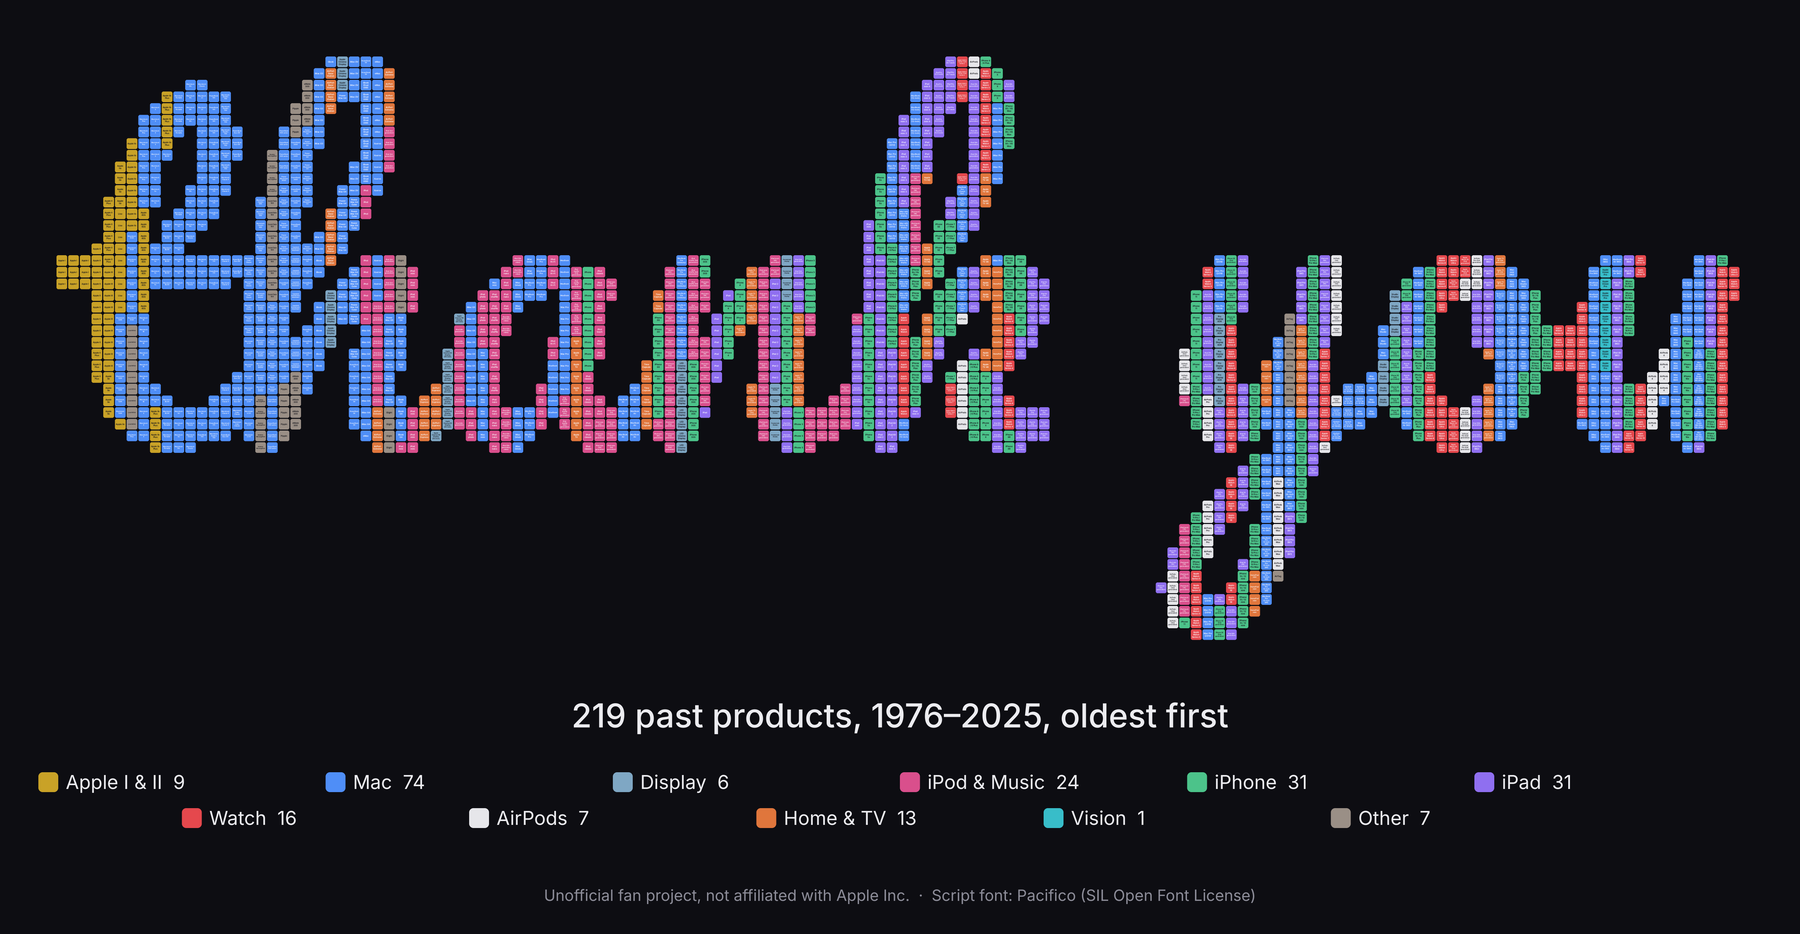
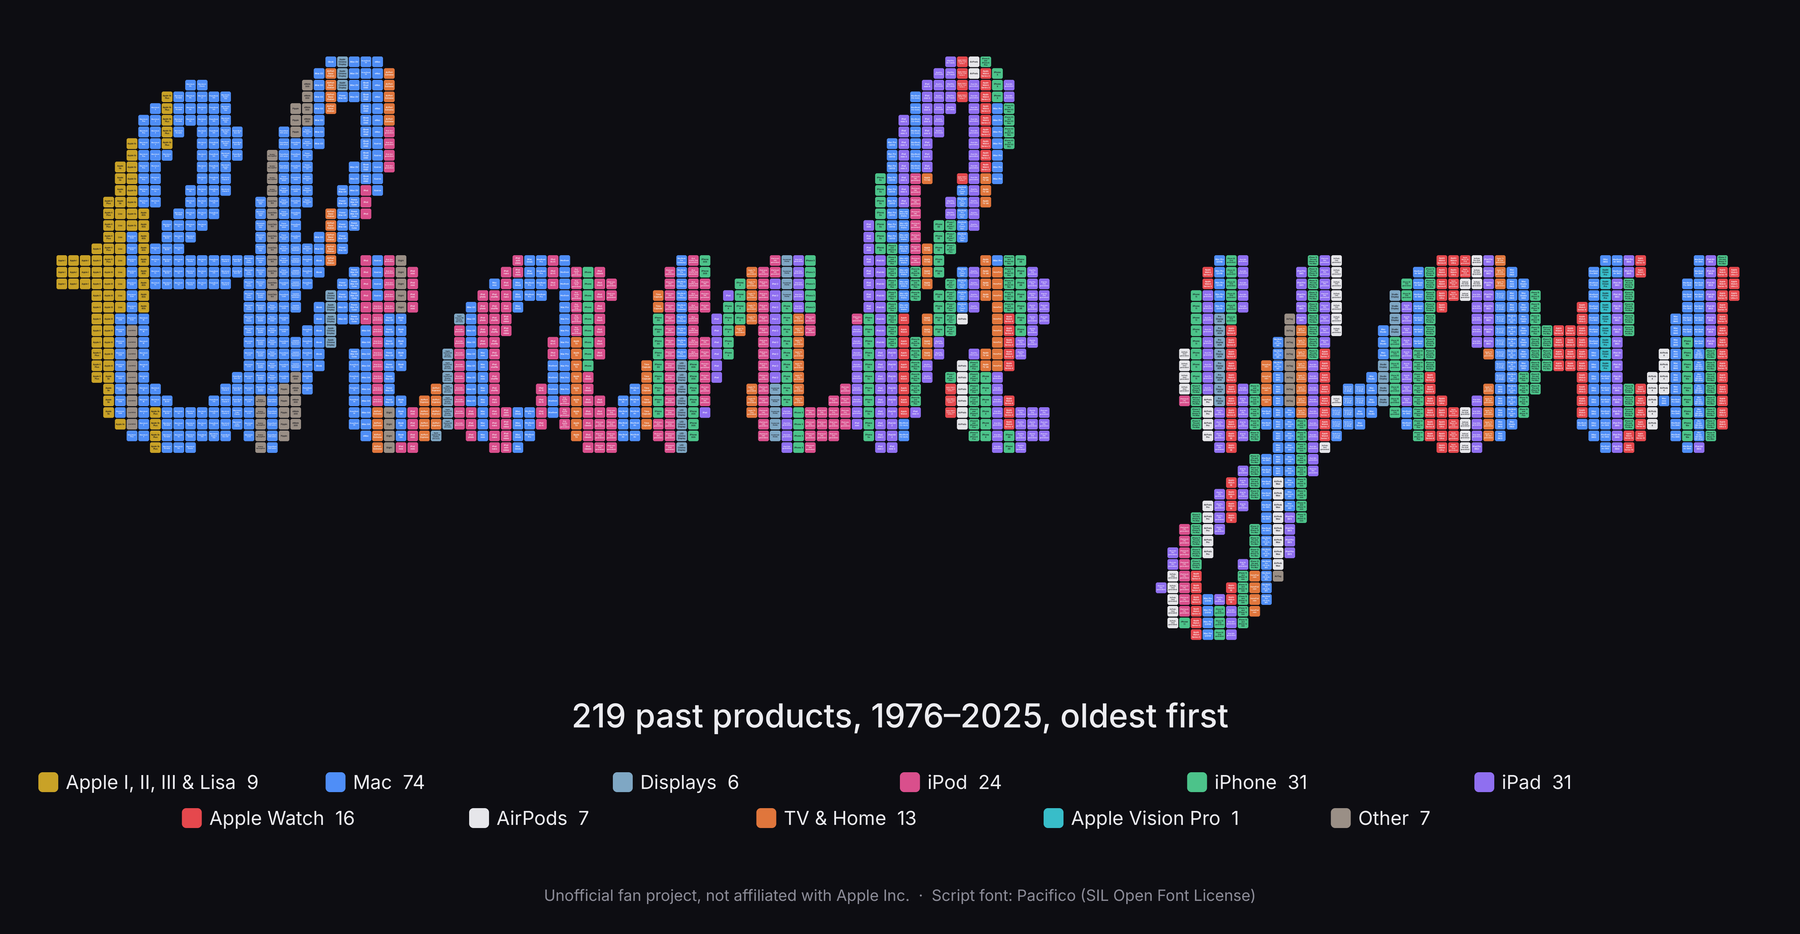
Use Apple's marketing names for categories and recent products
Claude-Session: https://claude.ai/code/session_01MyV9r8x459Jz8C5bHCgrmS

diff --git a/scripts/fetch_current.py b/scripts/fetch_current.py
@@ -30,14 +30,14 @@ CATEGORY_PAGES = {
     "Mac": "https://www.apple.com/mac/",
     "iPad": "https://www.apple.com/ipad/",
     "iPhone": "https://www.apple.com/iphone/",
-    "Watch": "https://www.apple.com/watch/",
+    "Apple Watch": "https://www.apple.com/watch/",
     "AirPods": "https://www.apple.com/airpods/",
-    "Home & TV": "https://www.apple.com/tv-home/",
+    "TV & Home": "https://www.apple.com/tv-home/",
 }
 
 # Single-product pages: the product is current if its page loads.
 SINGLE_PAGES = {
-    "Apple Vision Pro": ("Vision", "https://www.apple.com/apple-vision-pro/"),
+    "Apple Vision Pro": ("Apple Vision Pro", "https://www.apple.com/apple-vision-pro/"),
     "AirTag": ("Other", "https://www.apple.com/airtag/"),
 }
 
@@ -70,7 +70,7 @@ def parse_strip(html: str) -> list[str]:
 
 def guess_category(label: str, page_category: str) -> str:
     if "display" in label.lower():
-        return "Display"
+        return "Displays"
     return page_category
 
 

diff --git a/scripts/fetch_images.py b/scripts/fetch_images.py
@@ -49,7 +49,7 @@ def strip_html(value: str) -> str:
 
 def title_candidates(product: dict) -> list[str]:
     """Article titles worth trying, most specific first."""
-    name = product["name"].split(" / ")[0].strip()
+    name = re.split(r" / | and (?![^()]*\))", product["name"])[0].strip()
     plain = re.sub(r"\s*\(.*?\)", "", name).strip()
     titles = [name, plain, product["line"]]
     seen, result = set(), []
@@ -82,7 +82,7 @@ class Wiki:
         return None
 
     def search_title(self, product: dict) -> str | None:
-        query = f'{product["name"].split(" / ")[0]} Apple'
+        query = f'{re.split(r" / | and (?![^()]*\))", product["name"])[0]} Apple'
         data = self.get(action="query", list="search", srsearch=query, srlimit=1, srnamespace=0)
         hits = data.get("query", {}).get("search", [])
         return hits[0]["title"] if hits else None

diff --git a/scripts/fetch_all_time.py b/scripts/fetch_all_time.py
@@ -34,10 +34,10 @@ ACCESSORIES = re.compile(
 )
 
 CATEGORY_KEYWORDS = [
-    ("iPhone", "iPhone"), ("iPad", "iPad"), ("Watch", "Watch"), ("AirPods", "AirPods"),
-    ("Display", "Display"), ("Vision", "Vision"), ("iPod", "iPod & Music"),
-    ("HomePod", "Home & TV"), ("Apple TV", "Home & TV"), ("Home", "Home & TV"),
-    ("AirPort", "Home & TV"), ("Mac", "Mac"), ("AirTag", "Other"),
+    ("iPhone", "iPhone"), ("iPad", "iPad"), ("Watch", "Apple Watch"), ("AirPods", "AirPods"),
+    ("Display", "Displays"), ("Vision", "Apple Vision Pro"), ("iPod", "iPod"),
+    ("HomePod", "TV & Home"), ("Apple TV", "TV & Home"), ("Home", "TV & Home"),
+    ("AirPort", "TV & Home"), ("Mac", "Mac"), ("AirTag", "Other"),
 ]
 
 

diff --git a/scripts/common.py b/scripts/common.py
@@ -13,16 +13,16 @@ OUTPUT_DIR = ROOT / "output"
 
 # Display order and colors for each product category.
 CATEGORIES: dict[str, str] = {
-    "Apple I & II": "#c9a227",
+    "Apple I, II, III & Lisa": "#c9a227",
     "Mac": "#4f8ef7",
-    "Display": "#7fa7c4",
-    "iPod & Music": "#d94f8c",
+    "Displays": "#7fa7c4",
+    "iPod": "#d94f8c",
     "iPhone": "#4cc38a",
     "iPad": "#8f6ff0",
-    "Watch": "#e5484d",
+    "Apple Watch": "#e5484d",
     "AirPods": "#e6e6ea",
-    "Home & TV": "#e0763c",
-    "Vision": "#38bdc9",
+    "TV & Home": "#e0763c",
+    "Apple Vision Pro": "#38bdc9",
     "Other": "#9a8f86",
 }
 

diff --git a/tests/test_scripts.py b/tests/test_scripts.py
@@ -120,7 +120,7 @@ def test_only_free_licenses_are_accepted():
 
 
 def test_title_candidates_drop_alternates_and_details():
-    product = {"name": "iPhone 16 / 16 Plus", "line": "iPhone"}
+    product = {"name": "iPhone 16 and iPhone 16 Plus", "line": "iPhone"}
     assert fetch_images.title_candidates(product) == ["iPhone 16", "iPhone"]
     product = {"name": "MacBook Air (M5)", "line": "MacBook Air"}
     assert fetch_images.title_candidates(product) == ["MacBook Air (M5)", "MacBook Air"]
